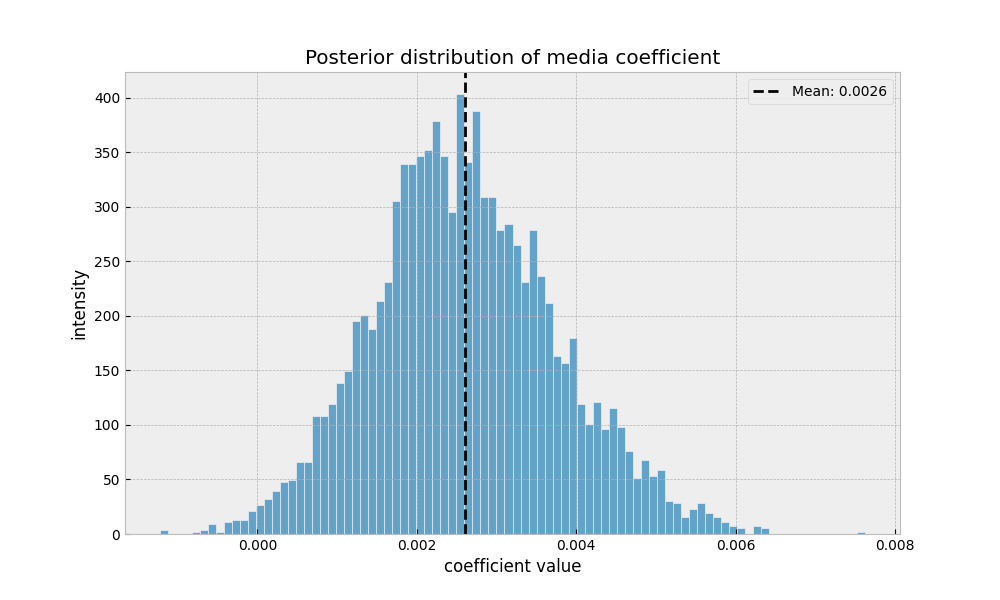
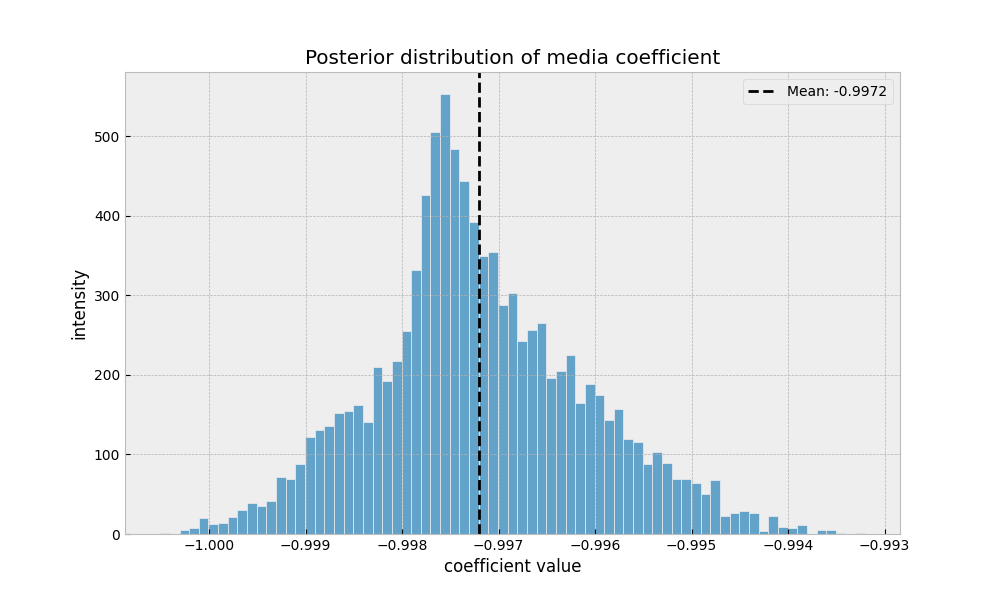
voi vittu

diff --git a/models/linalgo_model.py b/models/linalgo_model.py
@@ -5,6 +5,7 @@ import jax.numpy as jnp
 import numpy as np
 
 from configs import config
+from utils import GeometricAdstockTransformer,BetaHillTransformation
 
 import numpyro
 import numpyro.distributions as dist
@@ -31,35 +32,49 @@ def bayes_linreg_model(jackpot_category,spends, sales, dayofyear, index):
     ---------------------------------------------------------
     output: numpyro model
     '''
-    #Base  estimation
+    # !!!!! PRIOR DISTRIBUTIONS !!!!!!
+    # base
     base = numpyro.sample("base", dist.Normal(0,1))
-    # j-pot categories
+    # j-pot priors
     n_jackpot_categories = len(np.unique(jackpot_category)) # infer number of categories
     with plate("jackpot_plate", n_jackpot_categories):  # Use a plate for categories
         c_jackpot = numpyro.sample('c_jackpot', dist.Normal(0, 10)) # Prior for each category
-    #jackpot prior
-    jackpot_effect = c_jackpot[jackpot_category]
-    jackpot = jackpot_effect*jackpot_category
 
-    # Trend component
-    trend_coef = numpyro.sample("trend_coef", dist.Normal(0, 1))  # Prior for the trend
-    trend = trend_coef * index
+    #trend
+    trend_coef = numpyro.sample("trend_coef", dist.Normal(0, 1))
 
-    # Seasonality (using day_of_year as a categorical variable)
+    # Seasonality priors
     n_days = 366  # Maximum possible days in a year
     with plate("day_of_year_plate", n_days):  # Plate goes outside
-        day_of_year_effect = numpyro.sample("day_of_year_effect", dist.Normal(0, 1))
-    seasonality = day_of_year_effect[dayofyear - 1]
+        seasonality_effect = numpyro.sample("seasonality_effect", dist.Normal(0, 1))
+    
+    # Media spend prior
+    coef_spends = numpyro.sample('media_coef', dist.Normal(jnp.mean(spends)/1000,jnp.std(spends)/500))
+    # Error prior
+    epsilon = numpyro.sample("epsilon", dist.Normal(0, 0.05))
+
+    #!!! COMPONENT PARAMETERS !!!
+    # Trend component
+
+    trend = numpyro.deterministic("trend",trend_coef * index)
+
+    # Seasonality
+    seasonality = numpyro.deterministic('seasonality', seasonality_effect[dayofyear - 1])
      # dayofyear is 1-indexed, so we adjust
 
     # Coefficiency spends prior
-    coef_spends = numpyro.sample('coef_spends', dist.Normal(jnp.mean(spends)/1000,jnp.std(spends)/500))
-    media_effect = coef_spends*spends
-    epsilon = numpyro.sample("epsilon", dist.Normal(0, 0.05))
+    #TODO: add geometric transformation and beta-hill transformation for media cost data
+    media_effect = numpyro.deterministic("media_effect",coef_spends*spends)
+
+    # Jackpot
+
+    jackpot_effect = c_jackpot[jackpot_category]
+    jackpot = numpyro.deterministic("jackpot",jackpot_effect*jackpot_category)
+
 
     # estimate sales
     rev_sigma = numpyro.sample("sigma", dist.Uniform(0, 1))
-    rev_mean = numpyro.deterministic("mean", base + jackpot_effect*jackpot + media_effect + trend + seasonality + epsilon)
+    rev_mean = numpyro.deterministic("mean", base + jackpot + spends + media_effect + trend + seasonality + epsilon)
 
 
     sales = numpyro.sample('sales', dist.Normal(rev_mean, rev_sigma), obs=sales)

diff --git a/confounder_model.py b/confounder_model.py
@@ -9,6 +9,10 @@ import jax
 from configs import config
 from dowhy import CausalModel
 import numpyro
+import pandas as pd
+
+
+
 devices = config.devices
 
 
@@ -17,44 +21,65 @@ graph [
     directed 1
 
     node [
-    id seasonality
-    label "seasonality
+        id seasonality
+        label "seasonality"
     ]
     node [
-    id trend
-    label "trend"
+        id trend
+        label "trend"
     ]
     node [
-    id jackpot_size
-    label "jackpot size"
+        id jackpot_size
+        label "jackpot_size"
     ]
     node [
-    id media_cost
-    label "media cost"
+        id media_cost
+        label "media_cost"
     ]
     node [
-    id sales
-    label "sales"
+        id sales
+        label "sales"
     ]
     edge [
-    source jackpot size
-    target media cost
+        source jackpot_size
+        target media_cost
     ]
     edge [
-    source media cost
-    target sales
+        source media_cost
+        target sales
     ]
     edge [
-    source trend
-    target sales
+        source trend
+        target sales
     ]
     edge [
-    source seasonality
-    target sales
+        source seasonality
+        target sales
     ]
     edge [
-    source jackpot size
-    target sales
+        source jackpot_size
+        target sales
     ]
 ]
 """
+plt.style.use('bmh')
+
+df = pd.read_csv('data/data.csv', sep=';', index_col=0)
+df = df[['date','year','month','week','day_of_week','dayofyear','media_cost','jackpot_size','sales']]
+
+modeldf = df[['date','dayofyear','jackpot_size','media_cost','sales']]
+
+print("data head")
+print(modeldf.head())
+# split df to train and test
+split = int(np.floor(0.8*len(modeldf)))
+model_train, model_test = modeldf[:split], modeldf[split:]
+
+causal_model = CausalModel(data=model_train,graph=causal_graph,treatment='media_cost',outcome='sales')
+causal_model.view_model()
+print("")
+print("Backdoor path for causal graph:")
+print(causal_model._graph.get_backdoor_paths(nodes1=["media_cost"], nodes2=["sales"]))
+print("")
+print("Confirm the D-separation for nodes media, jackpot and sales:")
+print(causal_model._graph.check_valid_backdoor_set(nodes1=["media_cost"], nodes2=["sales"], nodes3=["jackpot_size"]))

diff --git a/linear_algo_run.py b/linear_algo_run.py
@@ -15,18 +15,25 @@ from numpyro.infer import MCMC, NUTS, HMC, Predictive
 
 devices = config.devices
 
-from models import bayes_linreg_model
+from models.linalgo_model import bayes_linreg_model
 
 plt.style.use('bmh')
 
 df = pd.read_csv('data/data.csv', sep=';', index_col=0)
 df = df[['date','year','month','week','day_of_week','dayofyear','media_cost','jackpot_size','sales']]
-
+modeldf = df[['date','dayofyear','jackpot_size','media_cost','sales']]
 print("data head")
 print(df.head())
 # split df to train and test
 split = int(np.floor(0.8*len(df)))
 df_train, df_test = df[:split], df[split:]
+spends=jnp.ones(14)
+jackpot_category=jnp.arange(1,15)
+sales=jnp.ones(14)
+dayofyear=jnp.arange(1,15)
+index=jnp.arange(1,15)
+
+numpyro.render_model(bayes_linreg_model,model_args=(jackpot_category,spends,sales,dayofyear,index), filename='models/linear_model.png', render_params=True)
 
 # start the linear algo run
 numpyro.set_host_device_count(devices)
@@ -73,7 +80,7 @@ plt.title("Forecasting Sales from marketing efforts (90% HPDI)")
 plt.savefig('results/linalgo_prediction.png')
 
 # Plot posterior distributions for sales data, jackpot data and media cost coefficient
-coef_spends = linreg_sample["coef_spends"]
+coef_spends = linreg_sample["media_coef"]
 c_jackpot = linreg_sample["c_jackpot"]
 plt.figure(figsize=(10, 6))
 fig = sns.histplot(data=coef_spends, stat="density", binwidth=1e-4)
